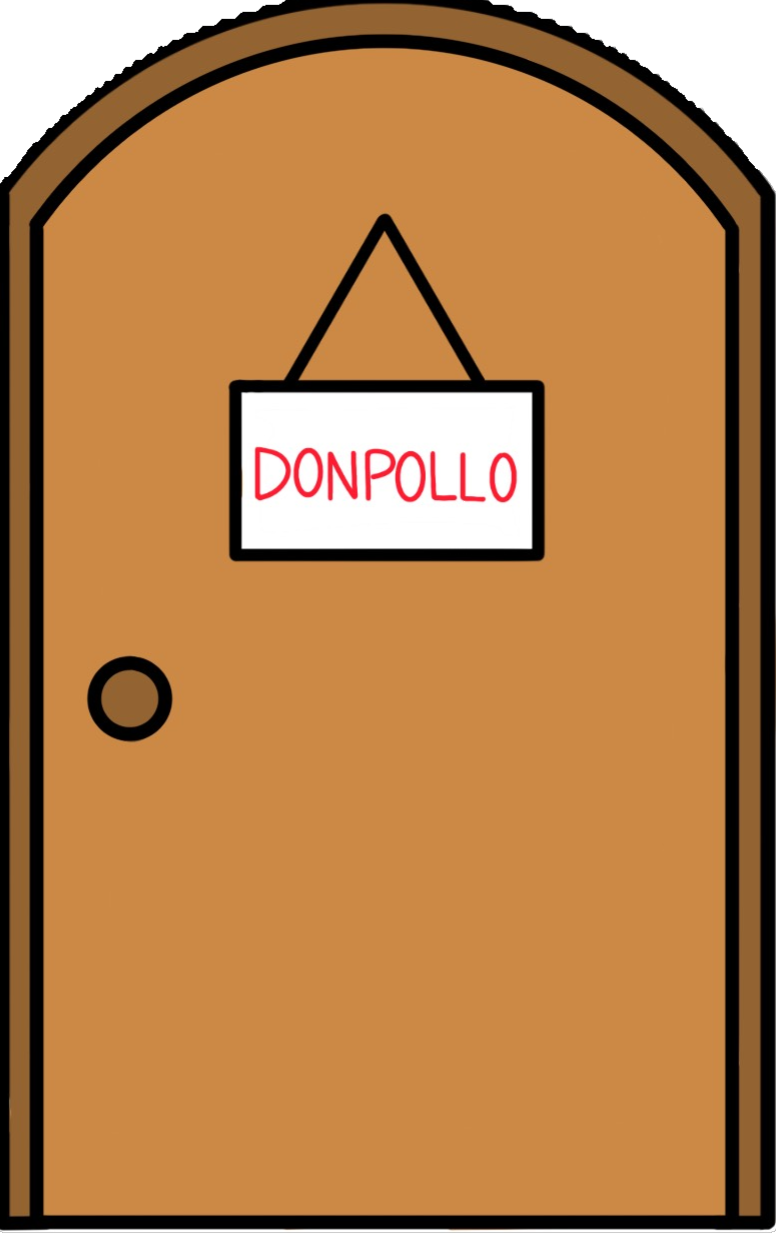
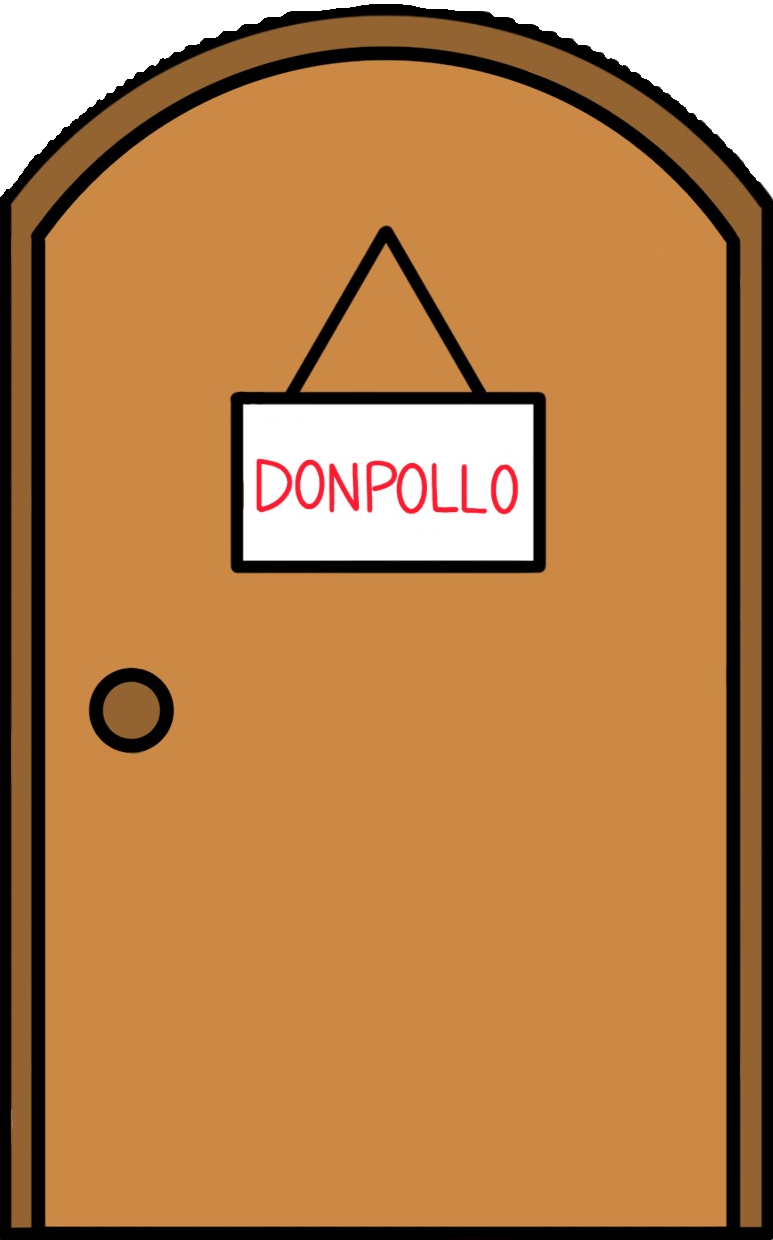
arreglos

Changed region(s): [[0.0, 0.0, 1.0, 1.0], [0.2794, 0.1532, 0.7141, 0.4903], [0.0931, 0.521, 0.2484, 0.6129]]

diff --git a/escaperoom.css b/escaperoom.css
@@ -61,25 +61,25 @@ body {
 
 #maceta {
     position: absolute;
-    width: 26%;
-    height: 26%;
+    width: 31%;
+    height: 31%;
     background-image: url('Imagenes/maceta_sinfondo_.PNG'); 
     background-size: contain;
     background-repeat: no-repeat;
-    bottom: 9%; 
-    left: 29.5%;
+    top: 67.5%;
+    left: 3%;
     z-index: 5;
 }
 
 #mesa {
     position: absolute;
-    width: 22%;
-    height: 22%;
+    width: 40%;
+    height: 40%;
     background-image: url('Imagenes/mesa_sinfondo_.PNG'); 
     background-size: contain;
     background-repeat: no-repeat;
-    top: 55%; 
-    left: 52.1%; 
+    top: 64%; 
+    left: 50.1%; 
     transform: translate(-50%, -50%);
     z-index: 5;
   
@@ -87,39 +87,41 @@ body {
 
 #escritorio {
     position: absolute;
-    width: 22%; 
-    height: 22%;
+    width: 27%; 
+    height: 27%;
     background-image: url('Imagenes/escritorio_sinfondo.PNG'); 
     background-size: contain;
     background-repeat: no-repeat;
-    top: 16%;
-    left: 58%;
+    top: 10%;
+    left: 72%;
     z-index: 5;
 }
+
 #puerta {
     position: absolute;
-    width: 22%; 
-    height: 22%;
+    width: 25%; 
+    height: 25%;
     background-image: url('Imagenes/puerta_sinfondo_.PNG'); 
     background-size: contain;
     background-repeat: no-repeat;
-    top: 10%; 
-    left: 34%;
+    top: 3%; 
+    left: 12%;
     z-index: 5;    
 }
 
 #reloj {
     position: absolute;
-    width: 18%;
-    height: 18%;
+    width: 13%;
+    height: 13%;
     background-image: url('Imagenes/reloj_sinfondo.png'); 
     background-size: contain;
     background-repeat: no-repeat;
-    top: 4.5%; 
-    left: 52%;
+    top: 3%; 
+    left: 41%;
     transform: translateX(-50%);
     z-index: 5;
 }
+
 #fondo {
     position: absolute;
     width: 100%;
